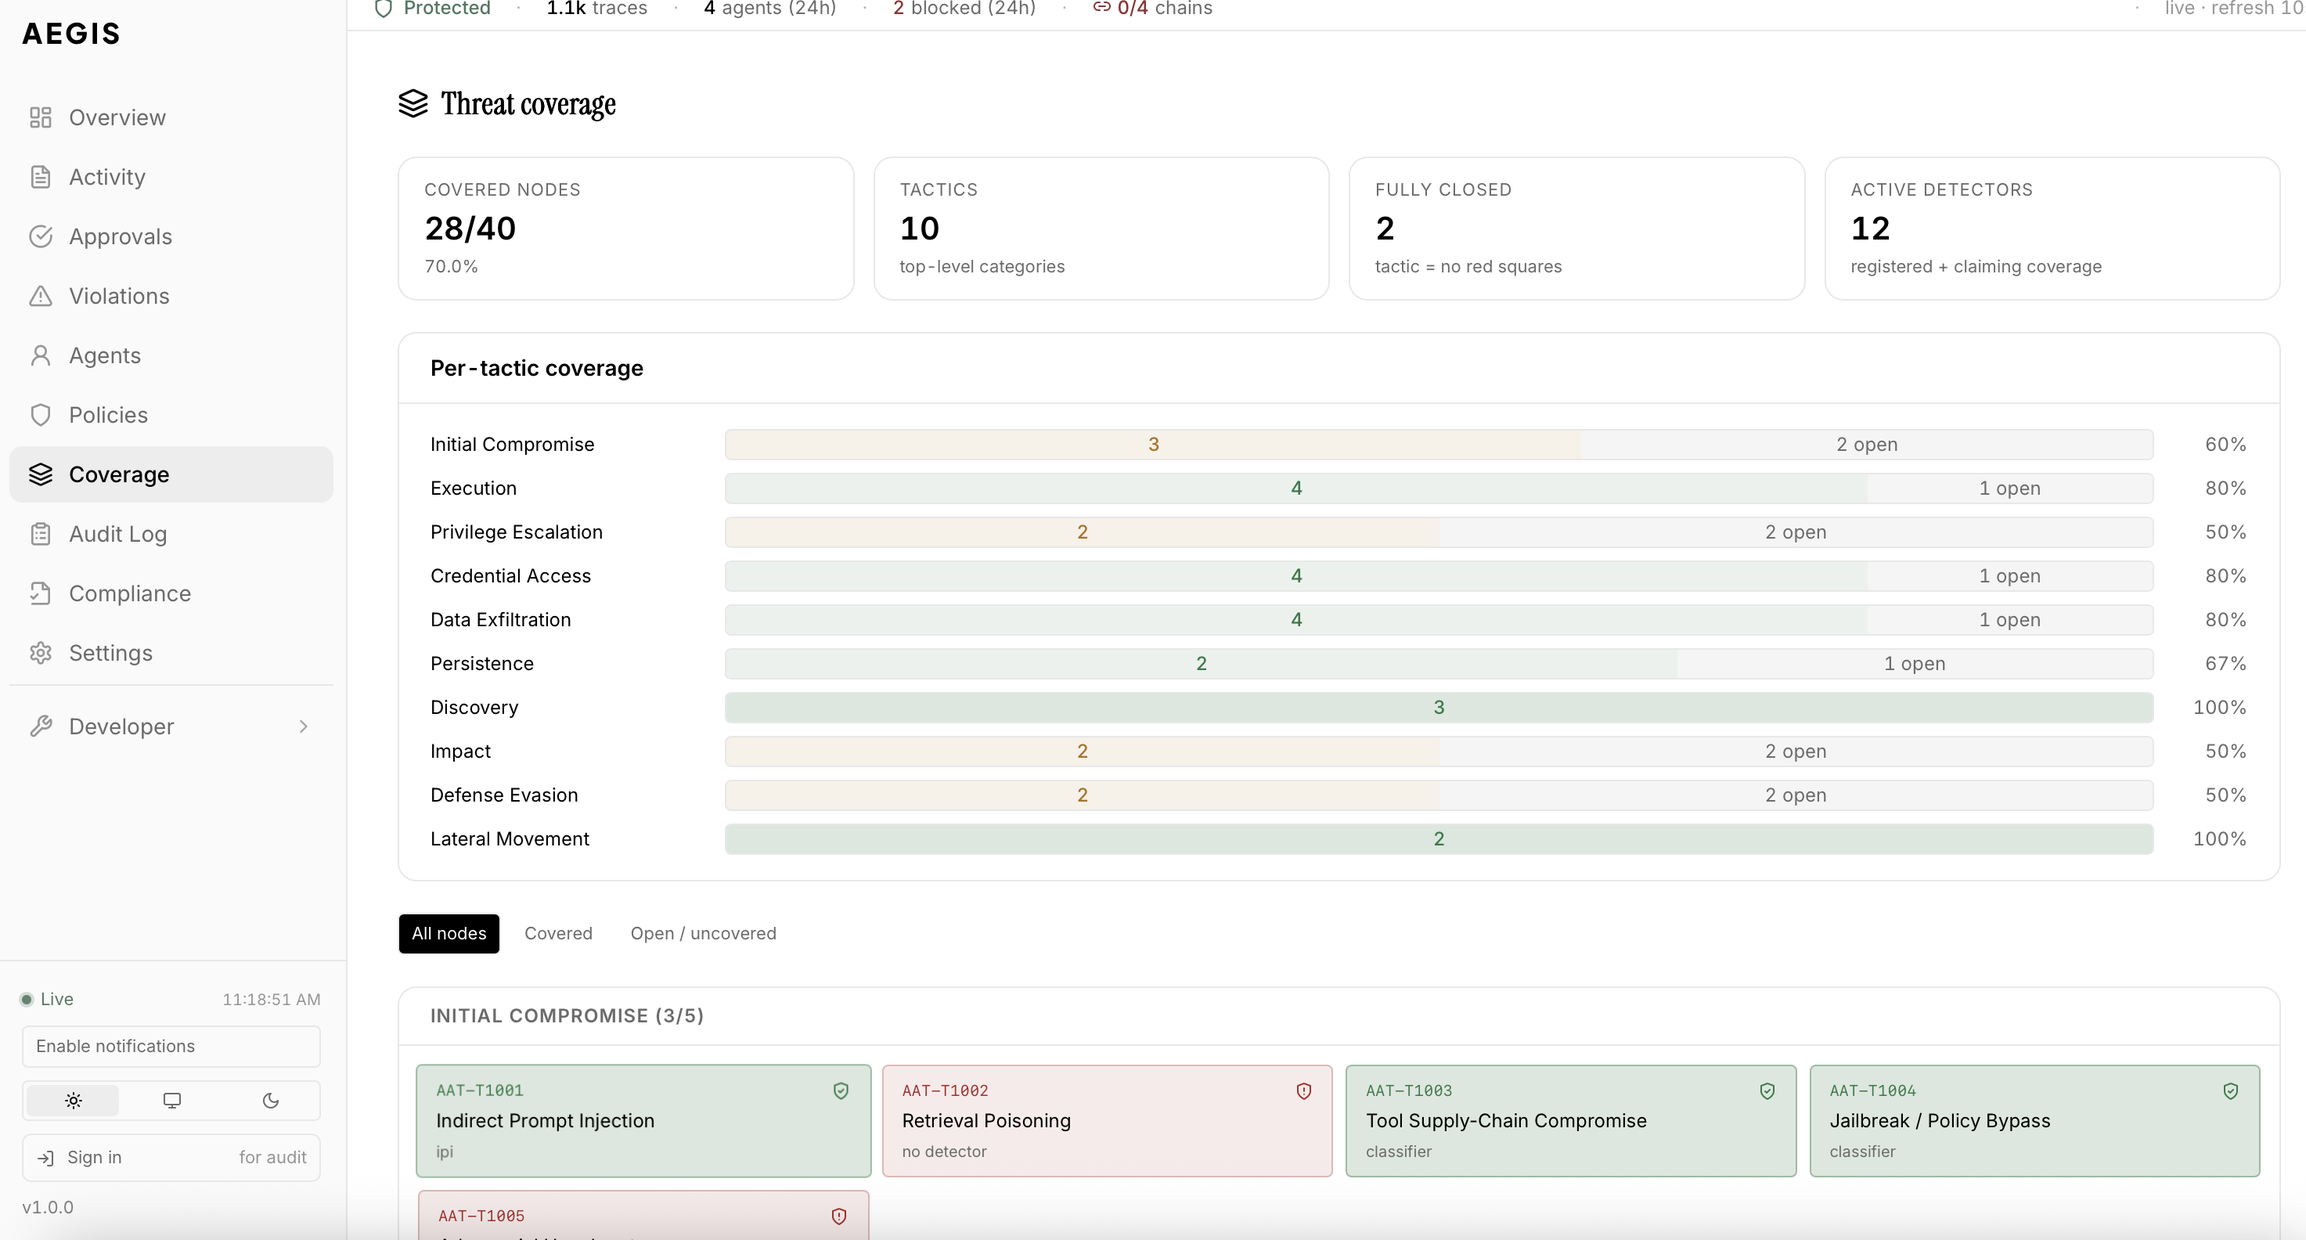
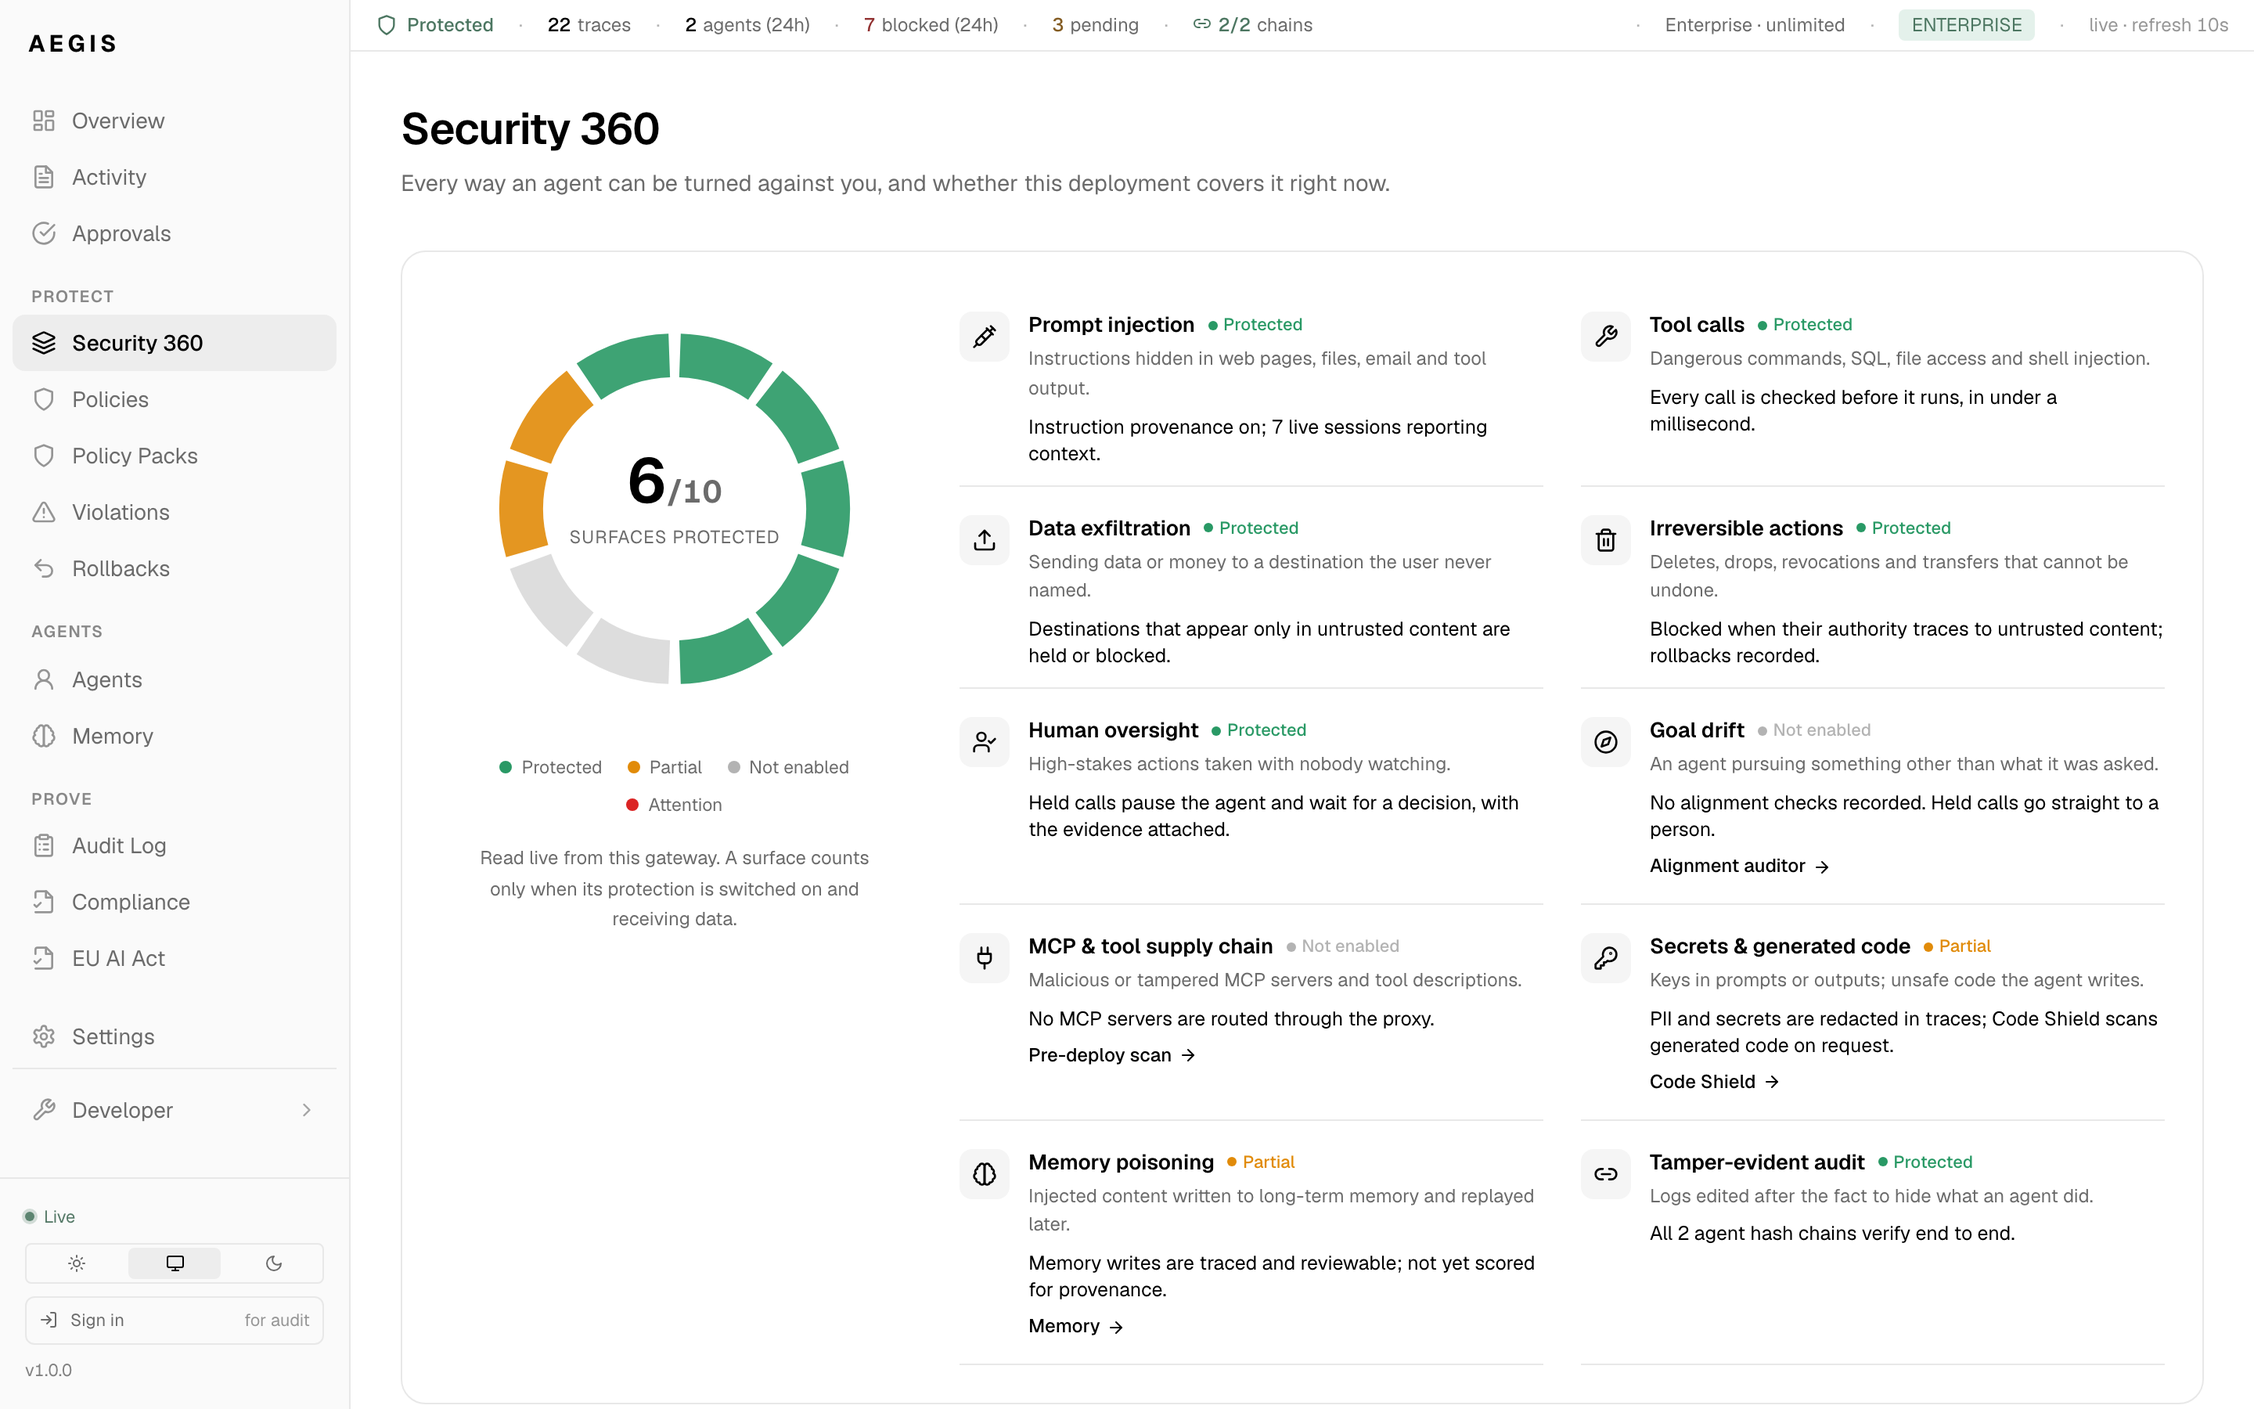
README: current product and measured numbers
Cockpit section on the redesigned views (runs timeline, evidence-first
approvals, agents as profiles, violations by protection, Security 360),
screenshots from real replayed runs; demo figure from the live run;
October batch of what shipped; a measured-numbers table with each
result's cost and where the layer fails; paper section pointing at v2
source in-repo with v1 numbers withdrawn; duplicate paper section
removed.

diff --git a/README.md b/README.md
@@ -106,9 +106,9 @@ Watch it trace tool calls, block SQL injection, detect PII, and pause for human 
 
 <br>
 
-**The Compliance Cockpit: traces, policies, cost tracking, sessions, approvals.**
+**The three live scenarios, photographed.** A benign call allowed in ~1 ms; a `curl … | sh` install blocked at the gateway with the refusal returned to the agent in-band; a `kubectl delete` held until a second person presses Allow. Reproduce with `bash research/compat/shoot_demo_flow.sh`.
 
-<img src="docs/images/readme_demo1.gif" alt="Dashboard walkthrough" width="820">
+<img src="docs/images/demo_walkthrough.png" alt="S1 benign call · S2 interception · S3 human approval" width="900">
 
 </div>
 
@@ -116,77 +116,89 @@ Watch it trace tool calls, block SQL injection, detect PII, and pause for human 
 
 ## Inside the Compliance Cockpit
 
-Six operator views cover the end-to-end lifecycle: what agents did, who did it, what got blocked, and what your MITRE-style threat coverage looks like.
+Seven operator views, all read live from the gateway. Every screenshot below is unretouched and was taken on real agent runs replayed through the SDK and gateway (`bash research/compat/shoot_replay.sh`).
 
 <table>
 <tr>
 <td width="50%">
-<a href="docs/images/cockpit/overview.png"><img src="docs/images/cockpit/overview.png" alt="Overview — 24h activity, KPIs, agent activity feed" width="100%"></a>
+<a href="docs/images/cockpit/overview.png"><img src="docs/images/cockpit/overview.png" alt="Overview" width="100%"></a>
 </td>
 <td width="50%" valign="top">
 
 ### <sub>01</sub> Overview
-Rolling 24-hour activity curve for every agent. Four load-bearing KPIs at the top: **actions**, **agents**, **blocked**, **pending review**. The lower panel streams recent agent actions and traces so ops always sees the last thing that happened without leaving the page.
+What your agents are doing right now and what AEGIS stopped: a banner for calls awaiting a person, four KPIs (**actions · agents · pending · blocked**), the last 24 hours, and the activity feed in plain language with the app's logo on every row.
 
 </td>
 </tr>
 
 <tr>
 <td width="50%">
-<a href="docs/images/cockpit/activity.png"><img src="docs/images/cockpit/activity.png" alt="Activity — forensic trace list + per-trace explainer" width="100%"></a>
+<a href="docs/images/cockpit/activity.png"><img src="docs/images/cockpit/activity.png" alt="Activity — runs timeline" width="100%"></a>
 </td>
 <td width="50%" valign="top">
 
 ### <sub>02</sub> Activity
-Forensic audit trail of every tool call. Filterable list on the left; on the right, a per-trace explainer with **What it tried**, **Result**, **Quality** tabs. Every blocked action shows the exact policy that fired and the DSL condition that matched — no guessing which rule caught it.
+Each agent run as a timeline titled by its request, like a chat. Every step is a sentence (“Sent money · 129.99 to US13…”) with the app's or website's logo, AEGIS's verdict and its latency; arguments and results open as fields, never as JSON. The **All actions** tab keeps the per-call forensic view with the integrity proof.
 
 </td>
 </tr>
 
 <tr>
 <td width="50%">
-<a href="docs/images/cockpit/agents.png"><img src="docs/images/cockpit/agents.png" alt="Agents — registry with owner, scope, last-seen" width="100%"></a>
+<a href="docs/images/cockpit/approvals.png"><img src="docs/images/cockpit/approvals.png" alt="Approvals — evidence-first" width="100%"></a>
 </td>
 <td width="50%" valign="top">
 
-### <sub>03</sub> Agents
-The agent registry: every agent that has ever touched the gateway, with the human owner, the operational scope (**PRODUCTION** / **STAGING** / **RESTRICTED**), a hashed secret, and last-seen timestamp. Status filters for **Active / Unregistered / Suspended / Deprecated** so out-of-lifecycle agents can't slip through unnoticed.
+### <sub>03</sub> Approvals
+A held call with its evidence: what the person asked, the passage the agent read with the attributed value highlighted (here an injected IBAN in a landlord's notice), the arguments as fields, the reason in plain words, and two buttons. The agent is paused until someone decides. The same evidence is shown to the alignment auditor when it reviews holds first.
 
 </td>
 </tr>
 
 <tr>
 <td width="50%">
-<a href="docs/images/cockpit/violation.png"><img src="docs/images/cockpit/violation.png" alt="Violations — grouped by policy with severity" width="100%"></a>
+<a href="docs/images/cockpit/agents.png"><img src="docs/images/cockpit/agents.png" alt="Agents" width="100%"></a>
 </td>
 <td width="50%" valign="top">
 
-### <sub>04</sub> Violations
-Every block, grouped by the policy that fired: `no-privileged-file-access`, `no-arbitrary-shell-execution`, `no-destructive-sql`, `block-personal-email-in-checkout`, and any custom rule you write. Severity chips (**CRITICAL / HIGH / MEDIUM / LOW**) let a compliance lead triage by risk in one glance.
+### <sub>04</sub> Agents
+One row per agent, created on first sight: the apps it has touched as logos, how often AEGIS has had to step in (**calls · held · blocked**), last seen, and status (**Active / Unregistered / Suspended / Deprecated**). Owner, declared tool scope, secret rotation and promotion live in the row's detail panel.
 
 </td>
 </tr>
 
 <tr>
 <td width="50%">
-<a href="docs/images/cockpit/coverage.png"><img src="docs/images/cockpit/coverage.png" alt="Coverage — MITRE-style threat matrix" width="100%"></a>
+<a href="docs/images/cockpit/violation.png"><img src="docs/images/cockpit/violation.png" alt="Violations" width="100%"></a>
 </td>
 <td width="50%" valign="top">
 
-### <sub>05</sub> Threat coverage
-MITRE-ATLAS-style coverage: how many of the 40 agent-attack techniques you've written a detector for. Per-tactic bars for **Initial Compromise · Execution · Privilege Escalation · Credential Access · Data Exfiltration · Persistence · Discovery · Impact · Defense Evasion · Lateral Movement**. Green = fully closed, sand = open, red = uncovered — so gaps are impossible to miss.
+### <sub>05</sub> Violations
+Every call refused or held, grouped under the protection that caught it in plain words (“Outbound call nobody asked for”, “Destination came from untrusted content”), with the verdict and the reason on each row and the call itself one click away.
 
 </td>
 </tr>
 
 <tr>
 <td width="50%">
-<a href="docs/images/cockpit/memory.png"><img src="docs/images/cockpit/memory.png" alt="Memory & cross-agent — beyond-the-call signals" width="100%"></a>
+<a href="docs/images/cockpit/coverage.png"><img src="docs/images/cockpit/coverage.png" alt="Security 360" width="100%"></a>
 </td>
 <td width="50%" valign="top">
 
-### <sub>06</sub> Memory & Cross-Agent
-The signals that _don't_ fit an activity row: **tainted memory recall** (agent retrieved a poisoned item from its knowledge base), **undeclared agent-to-agent data crossings**, and **pre-instruction PII** (personal data present in tool arguments before any prompt mentioned it). Each event carries a severity and a concrete fix hint (`Quarantine the memory item`, `Reset the agent's short-term memory window`, …).
+### <sub>06</sub> Security 360
+Ten ways an agent can be turned against its owner — prompt injection, data exfiltration, irreversible actions, goal drift, MCP supply chain, memory poisoning, tamper-evident audit, … — each with its status read live from this gateway and the one step that turns an uncovered surface on. A surface counts only when its protection is switched on **and** receiving data. Below it, the deployed detectors joined against the 40-technique agent threat ontology.
+
+</td>
+</tr>
+
+<tr>
+<td width="50%">
+<a href="docs/images/cockpit/memory.png"><img src="docs/images/cockpit/memory.png" alt="Memory & cross-agent" width="100%"></a>
+</td>
+<td width="50%" valign="top">
+
+### <sub>07</sub> Memory & Cross-Agent
+The signals that don't fit an activity row: **tainted memory recall**, **undeclared agent-to-agent data crossings**, and **pre-instruction PII** (personal data in tool arguments before any prompt mentioned it). Each carries a severity and a concrete fix hint.
 
 </td>
 </tr>
@@ -256,7 +268,20 @@ That's it. Every tool call is now classified, policy-checked, and recorded in a 
 
 ---
 
-## Recently shipped (last batch)
+## Recently shipped (October 2026)
+
+| Capability | Where | What it solves |
+|---|---|---|
+| **Instruction provenance (L<sub>p</sub>)** | `POST /api/v1/context` · [provenance.ts](packages/core-schema/src/provenance.ts) · pack `security-instruction-provenance` | A successful indirect injection produces an ordinary-looking call; content inspection fires on 0.4% of them. The SDK reports which spans of context came from the user and which crossed the trust boundary; the gateway asks which channel *licenses* the call's vocabulary, in under a millisecond, with no model call. |
+| **Argument-level authority** | `provenance.untrusted_only_values` · rules `provenance-destination-from-untrusted(-any-action)` | The same-tool hijack: the user asked for `send_email`, the injection swapped the recipient. Destination-like values (addresses, URLs, IBANs, paths) that appear only in untrusted content are attributed, whatever the tool is called. |
+| **Evidence-first holds** | `GET /api/v1/check/pending` → `evidence` · [pending-checks.tsx](apps/compliance-cockpit/src/components/approvals/pending-checks.tsx) | A reviewer shown an agent id and a JSON blob approves by default. Every hold now carries the person's request, the passage the agent read with the attributed value highlighted, and the reason in plain words. |
+| **The auditor reads what the agent read** | `POST /api/v1/alignment/check` with `session_id` | The alignment auditor used to refuse legitimate held calls “without evidence of having reviewed the file”: it was never shown the file. It now gets the session's tool output, fenced as data; a named attack signal forces a drift verdict. |
+| **One agent, one identity** | traces carry `agent_name`; sighting registered under the name | `/check` keyed agents by name and the trace schema by a derived UUID, so every named agent registered twice. Fixed at the source in SDK and gateway. |
+| **Activity as runs** | Cockpit `/traces` → Runs | Each session as a timeline titled by its request; steps as sentences with the app's logo, verdict and latency; fields, not JSON. |
+| **Security 360** | Cockpit `/coverage` | Ten agent-era attack surfaces, status read live from the gateway, each with the step that turns it on. |
+| **Reproducible evaluation** | [research/agentdojo](research/agentdojo) · [research/selective](research/selective) · [research/compat](research/compat) | AgentDojo end to end (two agent models, held-out suites), the instantiated per-call corpus, a same-tool probe, an adaptive attacker with an agent model in the loop, AgentDrift step-level replay, a 19-harness compatibility matrix, a load test, and the scripts that photograph the demo and the Cockpit. Every number in the paper is one command. |
+
+## Shipped in the batch before
 
 | Capability | Endpoint / file | What it solves |
 |---|---|---|
@@ -273,6 +298,23 @@ That's it. Every tool call is now classified, policy-checked, and recorded in a 
 | **Ed25519-signed release artifacts** | [tools/release-sign/](tools/release-sign/) + [.well-known/aegis-release-pubkey.pem](.well-known/aegis-release-pubkey.pem) | Every npm tarball + PyPI wheel ships with a signature manifest verifiable offline against the AEGIS-pinned public key. Defeats mirror tampering / in-transit forgery. |
 
 Ontology coverage at the time of this batch: **28/40 (70%)** across the 10 tactics. See live status at `GET /api/v1/ontology/coverage` or in the Cockpit's `/coverage` page.
+
+---
+
+## What the numbers are
+
+Measured on the shipping gateway, reported with their cost. Full tables, intervals and the commands that produce them are in [the paper](research/paper-arxiv/) (`research/paper-arxiv/aegis.pdf`); the numbers in the paper's first arXiv version are withdrawn and the audit is in its appendix.
+
+| Measurement | Result | The honest cost |
+|---|---|---|
+| **AgentDojo v1.2.1**, gpt-4o-mini, 4 suites, 949 attack pairs | attack success **29.7% → 1.4%** (0.9% counting only calls that ran); lowest of the defenses compared (LLM tool filter 5.4%) | clean-task utility 69.1% → 38.1% with no reviewer; 56.7% with the alignment auditor answering holds first |
+| **AgentDojo**, qwen3:8b served locally, held-out suites (workspace + travel, 700 pairs) | attacks **23 → 4** of 700 | no utility cost (17 of 60 vs 16) |
+| **Per-call corpus** (237 attacks live agents emitted under injection) | content inspection at chance; provenance flags 75.5% at 0% false positives on single-step benign calls | holds 20.7% of benign two-step calls, the known class |
+| **AgentDrift** (public, 19,517 labelled steps) | 62.8% of hijacked steps caught (dataset baseline 55.4%), even across attack types incl. delayed hijacks | precision 48.5%: 14.5% of benign steps held |
+| **Overhead** | 0.44 ms median per check; ~2,300–3,000 checks/s per gateway process | p99 84–93 ms at 128 concurrent clients on one laptop |
+| **Compatibility** | 19 agent harnesses × 4 scenarios | found and fixed 26 defects no unit test had caught; listed in the paper |
+
+Where it does not work, and the paper says so: an injection that stays inside the tool the user asked for and changes nothing a value check can see; a user who delegates to a document (“do what my to-do list says”), which provenance cannot tell from an injection; an auditor small enough to be injected itself.
 
 ---
 
@@ -990,26 +1032,6 @@ Open [localhost:8501](http://localhost:8501) and follow the guided prompts:
 
 ---
 
-## Paper
-
-If you use AEGIS in your research, please cite our paper:
-
-> **AEGIS: No Tool Call Left Unchecked -- A Pre-Execution Firewall and Audit Layer for AI Agents**
-> Aojie Yuan, Zhiyuan Su, Yue Zhao
-> *arXiv:2603.12621*, 2026
-> [[PDF]](https://arxiv.org/abs/2603.12621)
-
-```bibtex
-@article{yuan2026aegis,
-  title={AEGIS: No Tool Call Left Unchecked -- A Pre-Execution Firewall and Audit Layer for AI Agents},
-  author={Yuan, Aojie and Su, Zhiyuan and Zhao, Yue},
-  journal={arXiv preprint arXiv:2603.12621},
-  year={2026}
-}
-```
-
----
-
 ## Contributing
 
 Issues and PRs welcome. Development setup:
@@ -1025,6 +1047,8 @@ docker compose -f docker-compose.dev.yml up    # hot-reload enabled
 ## Paper & citation
 
 AEGIS is described in the paper **[AEGIS: No Tool Call Left Unchecked — A Pre-Execution Firewall and Audit Layer for AI Agents](https://arxiv.org/abs/2603.12621)** (arXiv:2603.12621) by [Aojie (Justin) Yuan](https://aojieyuan.com), Zhiyuan Su, and [Yue Zhao](https://viterbi-web.usc.edu/~yzhao010/) at [USC FORTIS Lab](https://viterbi-web.usc.edu/~yzhao010/lab).
+
+**Version 2 (October 2026)** is a system paper: AgentDojo end to end, the instruction-provenance layer measured on calls live agents emitted under attack, an adaptive attacker, AgentDrift, the compatibility matrix, and a load test, with every number produced by a command in this repository at the commit tagged `arxiv-v2`. Source and PDF: [`research/paper-arxiv/`](research/paper-arxiv/). The numbers reported in version 1 are withdrawn; the appendix gives the audit of how they were produced.
 
 - Plain-language explainer: [Why Every AI Agent Needs an Audit Layer](https://aojieyuan.com/blog/why-ai-agents-need-an-audit-layer)
 - Press: [USC Viterbi News — *Giving AI Agents the Keys? USC Engineers Develop Tools to Audit and Monitor AI Agents*](https://viterbischool.usc.edu/news/2026/08/giving-ai-agents-the-keys-usc-engineers-develop-tools-to-audit-and-monitor-ai-agents/) (Aug 2026)
